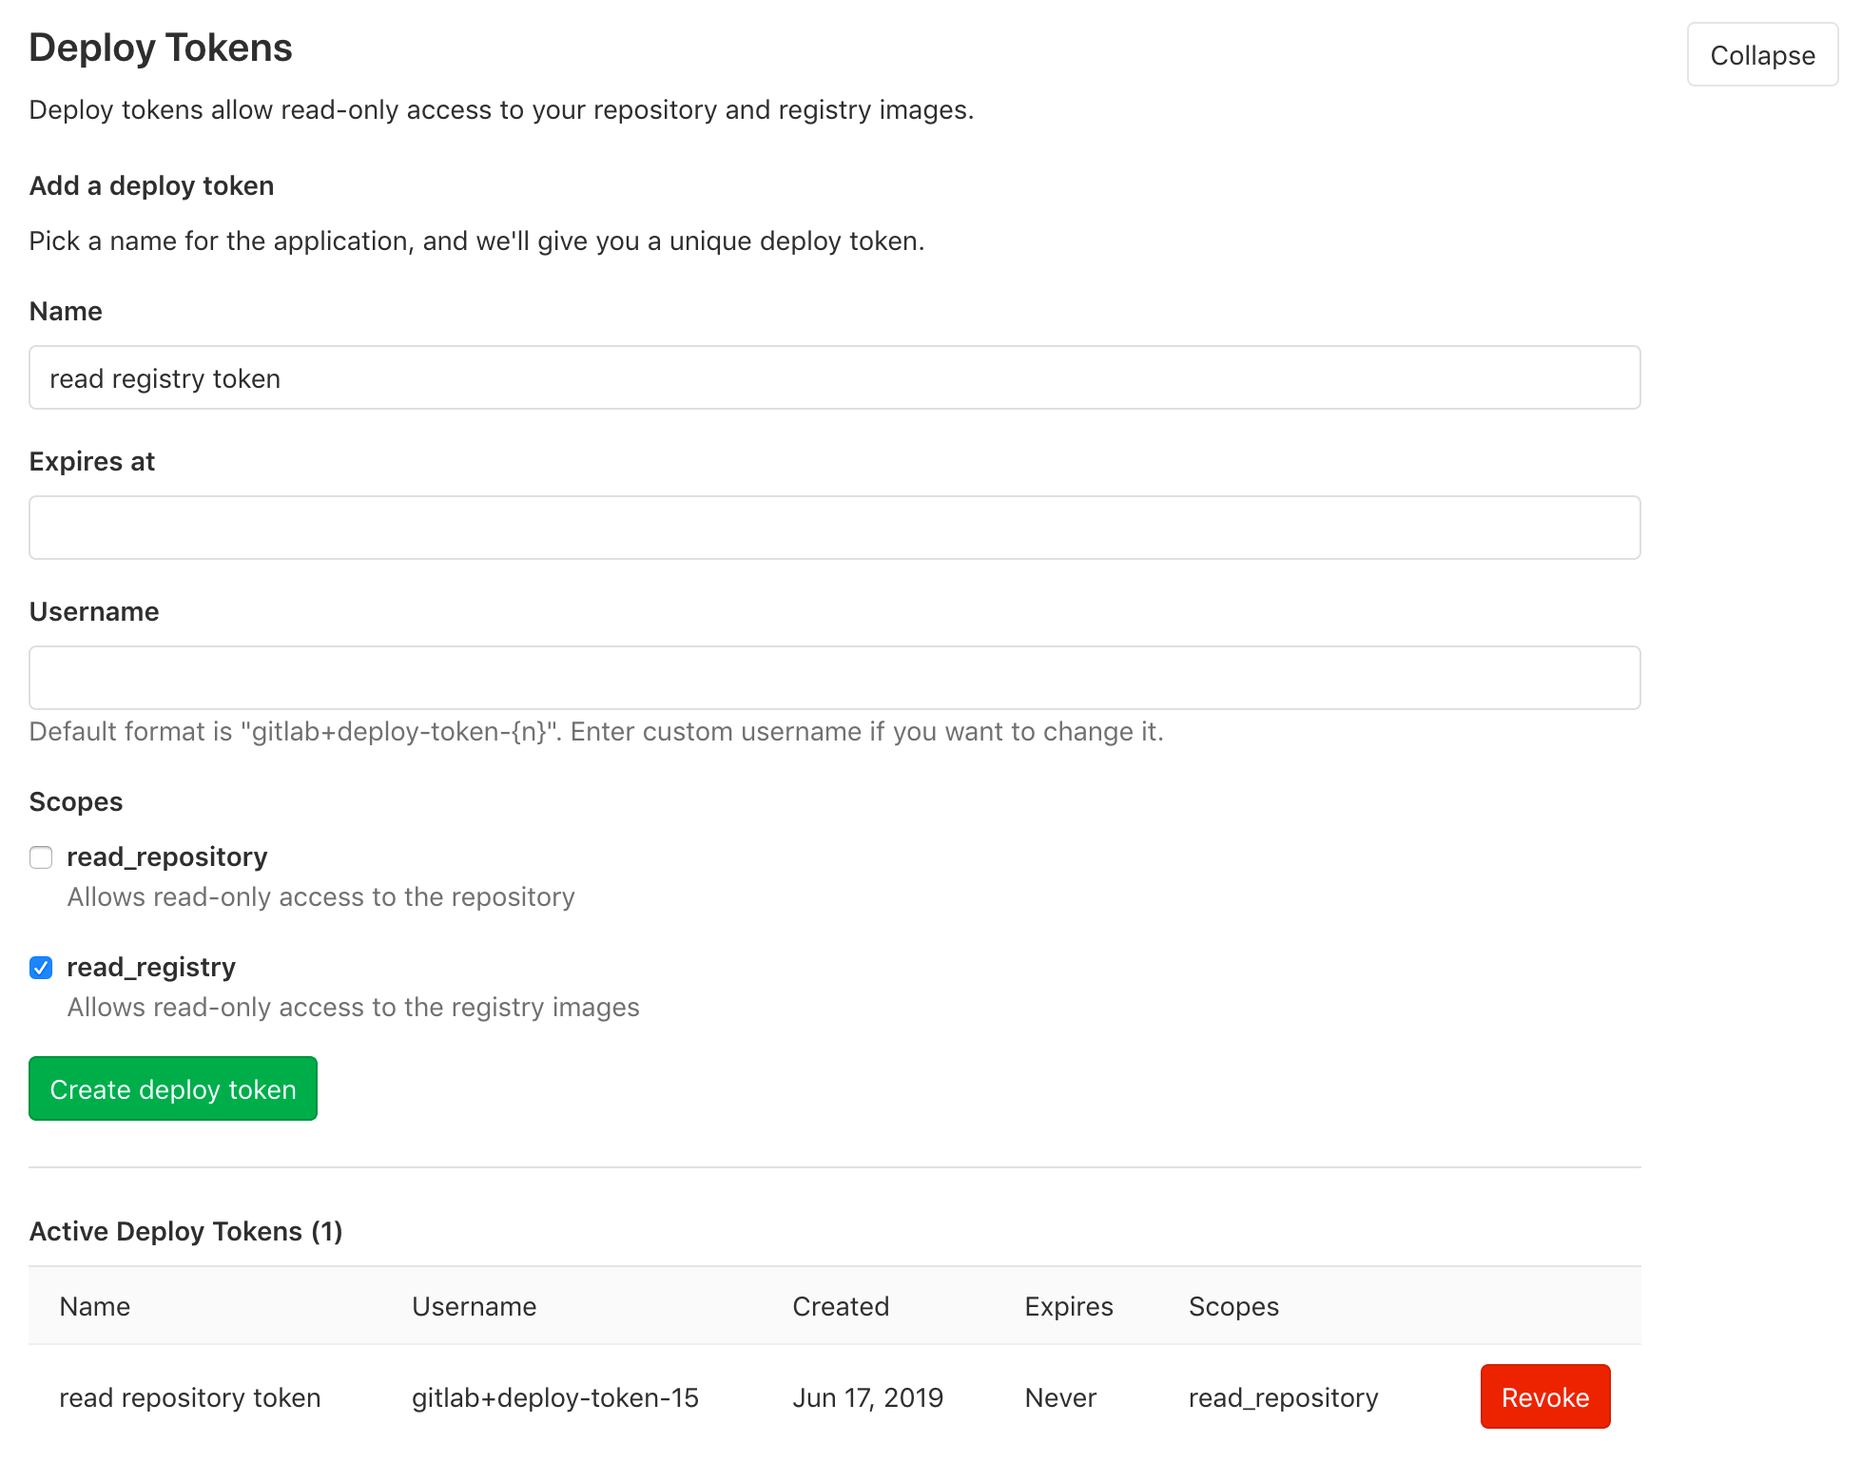
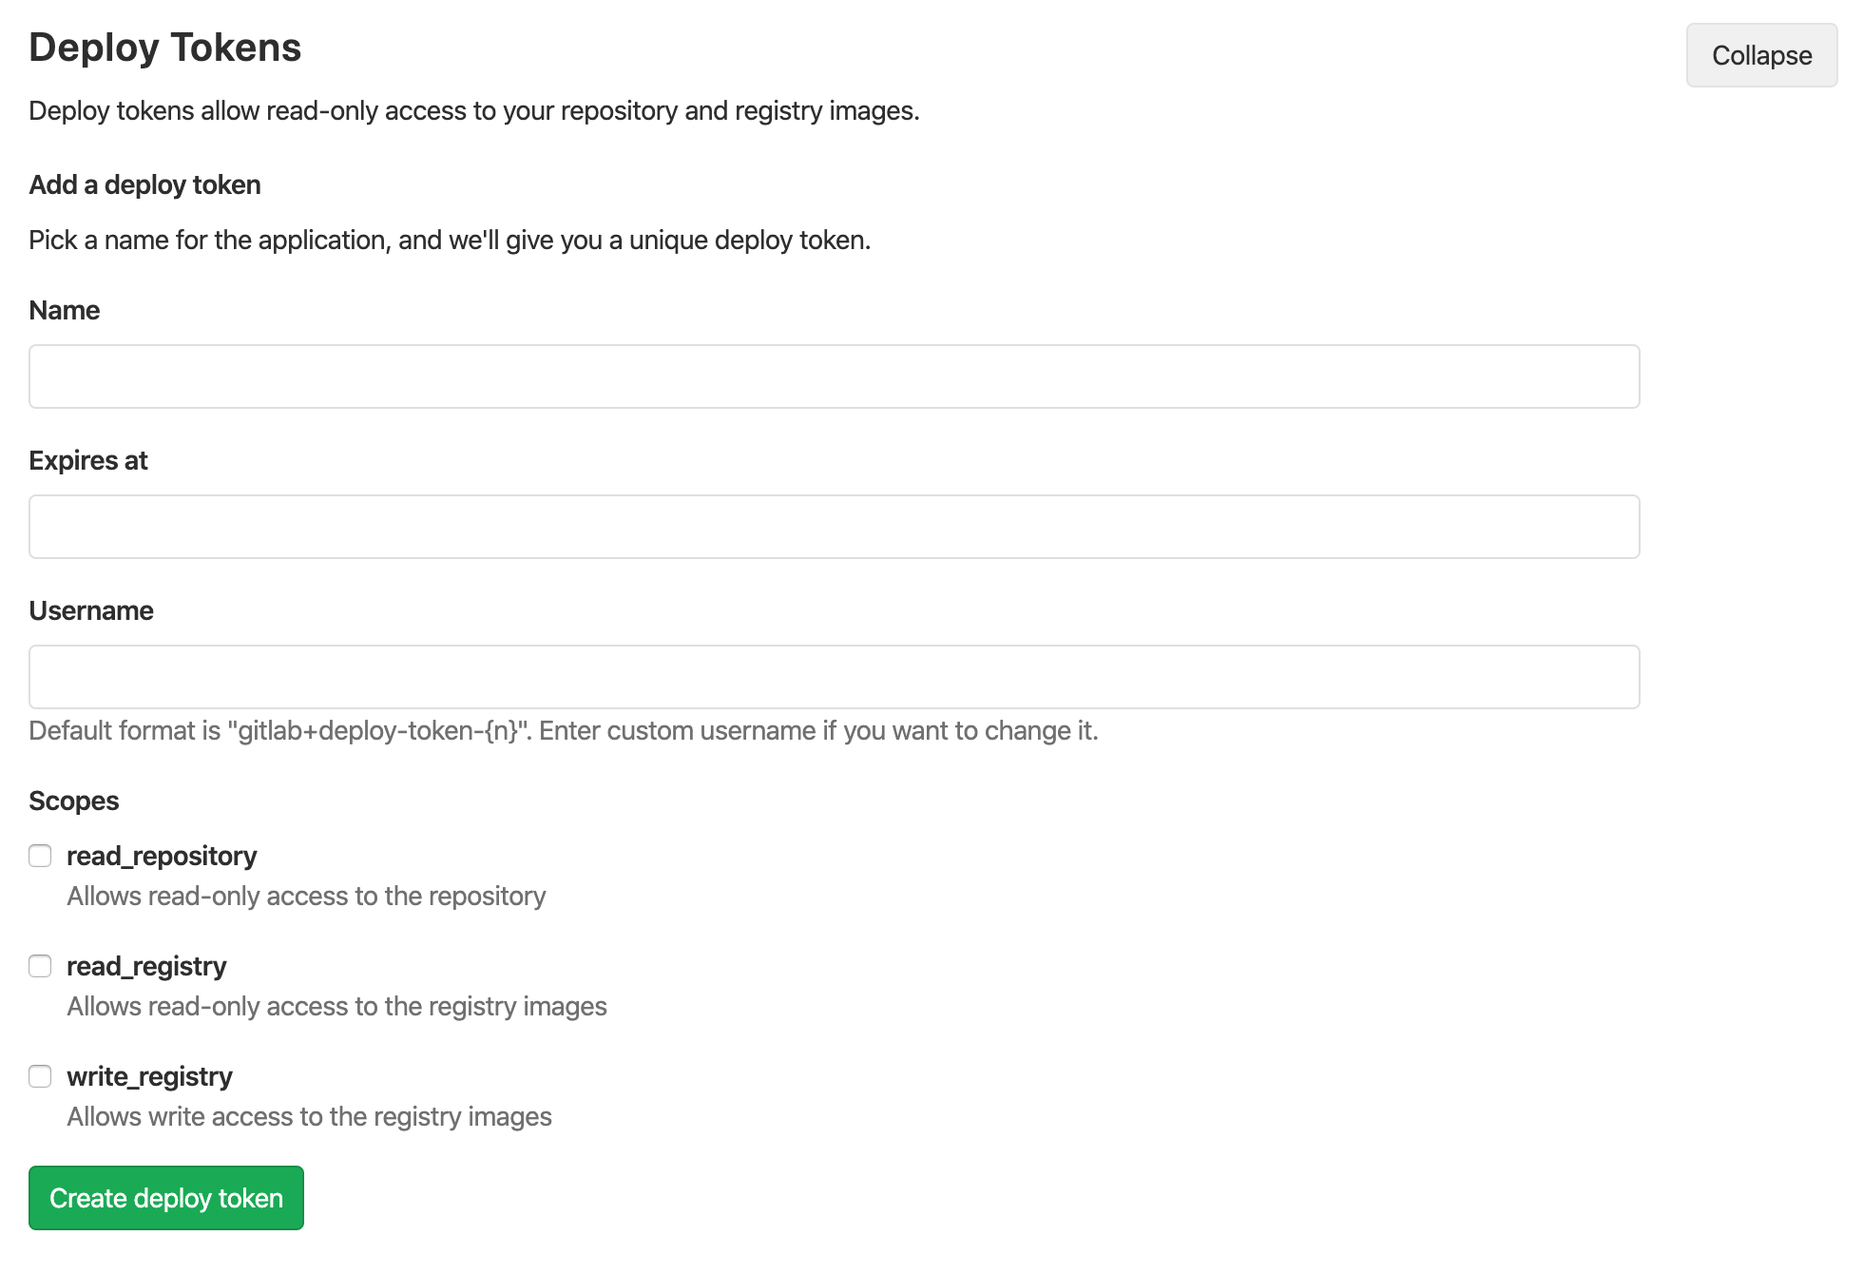
Add write_registry scope to deploy tokens
Add a new write_registry scope to deploy tokens
to allow creation of container images.

diff --git a/spec/lib/gitlab/auth_spec.rb b/spec/lib/gitlab/auth_spec.rb
@@ -30,7 +30,7 @@ describe Gitlab::Auth, :use_clean_rails_memory_store_caching do
     it 'optional_scopes contains all non-default scopes' do
       stub_container_registry_config(enabled: true)
 
-      expect(subject.optional_scopes).to eq %i[read_user read_api read_repository write_repository read_registry sudo openid profile email]
+      expect(subject.optional_scopes).to eq %i[read_user read_api read_repository write_repository read_registry write_registry sudo openid profile email]
     end
   end
 
@@ -38,21 +38,21 @@ describe Gitlab::Auth, :use_clean_rails_memory_store_caching do
     it 'contains all non-default scopes' do
       stub_container_registry_config(enabled: true)
 
-      expect(subject.all_available_scopes).to eq %i[api read_user read_api read_repository write_repository read_registry sudo]
+      expect(subject.all_available_scopes).to eq %i[api read_user read_api read_repository write_repository read_registry write_registry sudo]
     end
 
     it 'contains for non-admin user all non-default scopes without ADMIN access' do
       stub_container_registry_config(enabled: true)
       user = create(:user, admin: false)
 
-      expect(subject.available_scopes_for(user)).to eq %i[api read_user read_api read_repository write_repository read_registry]
+      expect(subject.available_scopes_for(user)).to eq %i[api read_user read_api read_repository write_repository read_registry write_registry]
     end
 
     it 'contains for admin user all non-default scopes with ADMIN access' do
       stub_container_registry_config(enabled: true)
       user = create(:user, admin: true)
 
-      expect(subject.available_scopes_for(user)).to eq %i[api read_user read_api read_repository write_repository read_registry sudo]
+      expect(subject.available_scopes_for(user)).to eq %i[api read_user read_api read_repository write_repository read_registry write_registry sudo]
     end
 
     context 'registry_scopes' do
@@ -72,7 +72,7 @@ describe Gitlab::Auth, :use_clean_rails_memory_store_caching do
         end
 
         it 'contains all registry related scopes' do
-          expect(subject.registry_scopes).to eq %i[read_registry]
+          expect(subject.registry_scopes).to eq %i[read_registry write_registry]
         end
       end
     end
@@ -401,6 +401,49 @@ describe Gitlab::Auth, :use_clean_rails_memory_store_caching do
     context 'while using deploy tokens' do
       let(:auth_failure) { Gitlab::Auth::Result.new(nil, nil) }
 
+      shared_examples 'registry token scope' do
+        it 'fails when login is not valid' do
+          expect(gl_auth.find_for_git_client('random_login', deploy_token.token, project: project, ip: 'ip'))
+            .to eq(auth_failure)
+        end
+
+        it 'fails when token is not valid' do
+          expect(gl_auth.find_for_git_client(login, '123123', project: project, ip: 'ip'))
+            .to eq(auth_failure)
+        end
+
+        it 'fails if token is nil' do
+          expect(gl_auth.find_for_git_client(login, nil, project: nil, ip: 'ip'))
+            .to eq(auth_failure)
+        end
+
+        it 'fails if token is not related to project' do
+          expect(gl_auth.find_for_git_client(login, 'abcdef', project: nil, ip: 'ip'))
+            .to eq(auth_failure)
+        end
+
+        it 'fails if token has been revoked' do
+          deploy_token.revoke!
+
+          expect(deploy_token.revoked?).to be_truthy
+          expect(gl_auth.find_for_git_client('deploy-token', deploy_token.token, project: nil, ip: 'ip'))
+            .to eq(auth_failure)
+        end
+      end
+
+      shared_examples 'deploy token with disabled registry' do
+        context 'when registry disabled' do
+          before do
+            stub_container_registry_config(enabled: false)
+          end
+
+          it 'fails when login and token are valid' do
+            expect(gl_auth.find_for_git_client(login, deploy_token.token, project: nil, ip: 'ip'))
+              .to eq(auth_failure)
+          end
+        end
+      end
+
       context 'when deploy token and user have the same username' do
         let(:username) { 'normal_user' }
         let(:user) { create(:user, username: username, password: 'my-secret') }
@@ -425,34 +468,33 @@ describe Gitlab::Auth, :use_clean_rails_memory_store_caching do
         context 'and belong to the same project' do
           let!(:read_registry) { create(:deploy_token, username: 'deployer', read_repository: false, projects: [project]) }
           let!(:read_repository) { create(:deploy_token, username: read_registry.username, read_registry: false, projects: [project]) }
+          let(:auth_success) { Gitlab::Auth::Result.new(read_repository, project, :deploy_token, [:download_code]) }
 
           it 'succeeds for the right token' do
-            auth_success = Gitlab::Auth::Result.new(read_repository, project, :deploy_token, [:download_code])
-
             expect(gl_auth.find_for_git_client('deployer', read_repository.token, project: project, ip: 'ip'))
               .to eq(auth_success)
           end
 
           it 'fails for the wrong token' do
             expect(gl_auth.find_for_git_client('deployer', read_registry.token, project: project, ip: 'ip'))
-              .to eq(auth_failure)
+              .not_to eq(auth_success)
           end
         end
 
         context 'and belong to different projects' do
+          let_it_be(:other_project) { create(:project) }
           let!(:read_registry) { create(:deploy_token, username: 'deployer', read_repository: false, projects: [project]) }
-          let!(:read_repository) { create(:deploy_token, username: read_registry.username, read_registry: false, projects: [project]) }
+          let!(:read_repository) { create(:deploy_token, username: read_registry.username, read_registry: false, projects: [other_project]) }
+          let(:auth_success) { Gitlab::Auth::Result.new(read_repository, other_project, :deploy_token, [:download_code]) }
 
           it 'succeeds for the right token' do
-            auth_success = Gitlab::Auth::Result.new(read_repository, project, :deploy_token, [:download_code])
-
-            expect(gl_auth.find_for_git_client('deployer', read_repository.token, project: project, ip: 'ip'))
+            expect(gl_auth.find_for_git_client('deployer', read_repository.token, project: other_project, ip: 'ip'))
               .to eq(auth_success)
           end
 
           it 'fails for the wrong token' do
-            expect(gl_auth.find_for_git_client('deployer', read_registry.token, project: project, ip: 'ip'))
-              .to eq(auth_failure)
+            expect(gl_auth.find_for_git_client('deployer', read_registry.token, project: other_project, ip: 'ip'))
+              .not_to eq(auth_success)
           end
         end
       end
@@ -542,45 +584,32 @@ describe Gitlab::Auth, :use_clean_rails_memory_store_caching do
               .to eq(auth_success)
           end
 
-          it 'fails when login is not valid' do
-            expect(gl_auth.find_for_git_client('random_login', deploy_token.token, project: project, ip: 'ip'))
-              .to eq(auth_failure)
-          end
-
-          it 'fails when token is not valid' do
-            expect(gl_auth.find_for_git_client(login, '123123', project: project, ip: 'ip'))
-              .to eq(auth_failure)
-          end
-
-          it 'fails if token is nil' do
-            expect(gl_auth.find_for_git_client(login, nil, project: nil, ip: 'ip'))
-              .to eq(auth_failure)
-          end
-
-          it 'fails if token is not related to project' do
-            expect(gl_auth.find_for_git_client(login, 'abcdef', project: nil, ip: 'ip'))
-              .to eq(auth_failure)
-          end
-
-          it 'fails if token has been revoked' do
-            deploy_token.revoke!
-
-            expect(deploy_token.revoked?).to be_truthy
-            expect(gl_auth.find_for_git_client('deploy-token', deploy_token.token, project: nil, ip: 'ip'))
-              .to eq(auth_failure)
-          end
+          it_behaves_like 'registry token scope'
         end
 
-        context 'when registry disabled' do
+        it_behaves_like 'deploy token with disabled registry'
+      end
+
+      context 'when the deploy token has write_registry as a scope' do
+        let_it_be(:deploy_token) { create(:deploy_token, write_registry: true, read_repository: false, read_registry: false, projects: [project]) }
+        let_it_be(:login) { deploy_token.username }
+
+        context 'when registry enabled' do
           before do
-            stub_container_registry_config(enabled: false)
+            stub_container_registry_config(enabled: true)
           end
 
-          it 'fails when login and token are valid' do
-            expect(gl_auth.find_for_git_client(login, deploy_token.token, project: nil, ip: 'ip'))
-              .to eq(auth_failure)
+          it 'succeeds when login and a project token are valid' do
+            auth_success = Gitlab::Auth::Result.new(deploy_token, project, :deploy_token, [:create_container_image])
+
+            expect(gl_auth.find_for_git_client(login, deploy_token.token, project: project, ip: 'ip'))
+              .to eq(auth_success)
           end
+
+          it_behaves_like 'registry token scope'
         end
+
+        it_behaves_like 'deploy token with disabled registry'
       end
     end
   end

diff --git a/lib/api/deploy_tokens.rb b/lib/api/deploy_tokens.rb
@@ -10,6 +10,7 @@ module API
 
         result_hash = {}
         result_hash[:read_registry] = scopes.include?('read_registry')
+        result_hash[:write_registry] = scopes.include?('write_registry')
         result_hash[:read_repository] = scopes.include?('read_repository')
         result_hash
       end
@@ -54,7 +55,7 @@ module API
       params do
         requires :name, type: String, desc: "New deploy token's name"
         requires :scopes, type: Array[String], values: ::DeployToken::AVAILABLE_SCOPES.map(&:to_s),
-          desc: 'Indicates the deploy token scopes. Must be at least one of "read_repository" or "read_registry".'
+          desc: 'Indicates the deploy token scopes. Must be at least one of "read_repository", "read_registry", or "write_registry".'
         optional :expires_at, type: DateTime, desc: 'Expiration date for the deploy token. Does not expire if no value is provided.'
         optional :username, type: String, desc: 'Username for deploy token. Default is `gitlab+deploy-token-{n}`'
       end
@@ -117,7 +118,7 @@ module API
       params do
         requires :name, type: String, desc: 'The name of the deploy token'
         requires :scopes, type: Array[String], values: ::DeployToken::AVAILABLE_SCOPES.map(&:to_s),
-          desc: 'Indicates the deploy token scopes. Must be at least one of "read_repository" or "read_registry".'
+          desc: 'Indicates the deploy token scopes. Must be at least one of "read_repository", "read_registry", or "write_registry".'
         optional :expires_at, type: DateTime, desc: 'Expiration date for the deploy token. Does not expire if no value is provided.'
         optional :username, type: String, desc: 'Username for deploy token. Default is `gitlab+deploy-token-{n}`'
       end

diff --git a/spec/services/auth/container_registry_authentication_service_spec.rb b/spec/services/auth/container_registry_authentication_service_spec.rb
@@ -766,8 +766,8 @@ describe Auth::ContainerRegistryAuthenticationService do
       { scopes: ["repository:#{project.full_path}:pull"] }
     end
 
-    context 'when deploy token has read_registry as a scope' do
-      let(:current_user) { create(:deploy_token, projects: [project]) }
+    context 'when deploy token has read and write registry as scopes' do
+      let(:current_user) { create(:deploy_token, write_registry: true, projects: [project]) }
 
       shared_examples 'able to login' do
         context 'registry provides read_container_image authentication_abilities' do
@@ -790,7 +790,7 @@ describe Auth::ContainerRegistryAuthenticationService do
             { scopes: ["repository:#{project.full_path}:push"] }
           end
 
-          it_behaves_like 'an inaccessible'
+          it_behaves_like 'a pushable'
         end
 
         it_behaves_like 'able to login'
@@ -808,7 +808,7 @@ describe Auth::ContainerRegistryAuthenticationService do
             { scopes: ["repository:#{project.full_path}:push"] }
           end
 
-          it_behaves_like 'an inaccessible'
+          it_behaves_like 'a pushable'
         end
 
         it_behaves_like 'able to login'
@@ -826,7 +826,7 @@ describe Auth::ContainerRegistryAuthenticationService do
             { scopes: ["repository:#{project.full_path}:push"] }
           end
 
-          it_behaves_like 'an inaccessible'
+          it_behaves_like 'a pushable'
         end
 
         it_behaves_like 'able to login'

diff --git a/app/services/auth/container_registry_authentication_service.rb b/app/services/auth/container_registry_authentication_service.rb
@@ -135,7 +135,7 @@ module Auth
       when 'pull'
         build_can_pull?(requested_project) || user_can_pull?(requested_project) || deploy_token_can_pull?(requested_project)
       when 'push'
-        build_can_push?(requested_project) || user_can_push?(requested_project)
+        build_can_push?(requested_project) || user_can_push?(requested_project) || deploy_token_can_push?(requested_project)
       when 'delete'
         build_can_delete?(requested_project) || user_can_admin?(requested_project)
       when '*'
@@ -183,6 +183,13 @@ module Auth
         current_user.is_a?(DeployToken) &&
         current_user.has_access_to?(requested_project) &&
         current_user.read_registry?
+    end
+
+    def deploy_token_can_push?(requested_project)
+      has_authentication_ability?(:create_container_image) &&
+        current_user.is_a?(DeployToken) &&
+        current_user.has_access_to?(requested_project) &&
+        current_user.write_registry?
     end
 
     ##

diff --git a/spec/models/deploy_token_spec.rb b/spec/models/deploy_token_spec.rb
@@ -62,7 +62,7 @@ describe DeployToken do
 
     context 'with no scopes' do
       it 'is invalid' do
-        deploy_token = build(:deploy_token, read_repository: false, read_registry: false)
+        deploy_token = build(:deploy_token, read_repository: false, read_registry: false, write_registry: false)
 
         expect(deploy_token).not_to be_valid
         expect(deploy_token.errors[:base].first).to eq("Scopes can't be blank")
@@ -79,7 +79,7 @@ describe DeployToken do
 
     context 'with only one scope' do
       it 'returns scopes assigned to DeployToken' do
-        deploy_token = create(:deploy_token, read_registry: false)
+        deploy_token = create(:deploy_token, read_registry: false, write_registry: false)
         expect(deploy_token.scopes).to eq([:read_repository])
       end
     end

diff --git a/app/models/deploy_token.rb b/app/models/deploy_token.rb
@@ -7,7 +7,7 @@ class DeployToken < ApplicationRecord
   include Gitlab::Utils::StrongMemoize
   add_authentication_token_field :token, encrypted: :optional
 
-  AVAILABLE_SCOPES = %i(read_repository read_registry).freeze
+  AVAILABLE_SCOPES = %i(read_repository read_registry write_registry).freeze
   GITLAB_DEPLOY_TOKEN_NAME = 'gitlab-deploy-token'
 
   default_value_for(:expires_at) { Forever.date }
@@ -105,7 +105,7 @@ class DeployToken < ApplicationRecord
   end
 
   def ensure_at_least_one_scope
-    errors.add(:base, _("Scopes can't be blank")) unless read_repository || read_registry
+    errors.add(:base, _("Scopes can't be blank")) unless read_repository || read_registry || write_registry
   end
 
   def default_username

diff --git a/lib/gitlab/auth.rb b/lib/gitlab/auth.rb
@@ -12,7 +12,7 @@ module Gitlab
     REPOSITORY_SCOPES = [:read_repository, :write_repository].freeze
 
     # Scopes used for GitLab Docker Registry access
-    REGISTRY_SCOPES = [:read_registry].freeze
+    REGISTRY_SCOPES = [:read_registry, :write_registry].freeze
 
     # Scopes used for GitLab as admin
     ADMIN_SCOPES = [:sudo].freeze
@@ -200,6 +200,7 @@ module Gitlab
           api: full_authentication_abilities,
           read_api: read_only_authentication_abilities,
           read_registry: [:read_container_image],
+          write_registry: [:create_container_image],
           read_repository: [:download_code],
           write_repository: [:download_code, :push_code]
         }

diff --git a/spec/support/services/deploy_token_shared_examples.rb b/spec/support/services/deploy_token_shared_examples.rb
@@ -46,7 +46,7 @@ RSpec.shared_examples 'a deploy token creation service' do
     end
 
     context 'when the deploy token is invalid' do
-      let(:deploy_token_params) { attributes_for(:deploy_token, read_repository: false, read_registry: false) }
+      let(:deploy_token_params) { attributes_for(:deploy_token, read_repository: false, read_registry: false, write_registry: false) }
 
       it 'does not create a new DeployToken' do
         expect { subject }.not_to change { DeployToken.count }

diff --git a/db/migrate/20200406192059_add_write_registry_to_deploy_tokens.rb b/db/migrate/20200406192059_add_write_registry_to_deploy_tokens.rb
@@ -1,0 +1,17 @@
+# frozen_string_literal: true
+
+class AddWriteRegistryToDeployTokens < ActiveRecord::Migration[6.0]
+  include Gitlab::Database::MigrationHelpers
+
+  DOWNTIME = false
+
+  disable_ddl_transaction!
+
+  def up
+    add_column_with_default(:deploy_tokens, :write_registry, :boolean, default: false, allow_null: false)
+  end
+
+  def down
+    remove_column(:deploy_tokens, :write_registry)
+  end
+end

diff --git a/app/controllers/projects/settings/ci_cd_controller.rb b/app/controllers/projects/settings/ci_cd_controller.rb
@@ -93,7 +93,7 @@ module Projects
       end
 
       def deploy_token_params
-        params.require(:deploy_token).permit(:name, :expires_at, :read_repository, :read_registry, :username)
+        params.require(:deploy_token).permit(:name, :expires_at, :read_repository, :read_registry, :write_registry, :username)
       end
 
       def run_autodevops_pipeline(service)

diff --git a/app/controllers/groups/settings/ci_cd_controller.rb b/app/controllers/groups/settings/ci_cd_controller.rb
@@ -114,7 +114,7 @@ module Groups
       end
 
       def deploy_token_params
-        params.require(:deploy_token).permit(:name, :expires_at, :read_repository, :read_registry, :username)
+        params.require(:deploy_token).permit(:name, :expires_at, :read_repository, :read_registry, :write_registry, :username)
       end
     end
   end

diff --git a/spec/factories/deploy_tokens.rb b/spec/factories/deploy_tokens.rb
@@ -7,6 +7,7 @@ FactoryBot.define do
     sequence(:name) { |n| "PDT #{n}" }
     read_repository { true }
     read_registry { true }
+    write_registry { false }
     revoked { false }
     expires_at { 5.days.from_now }
     deploy_token_type { DeployToken.deploy_token_types[:project_type] }
